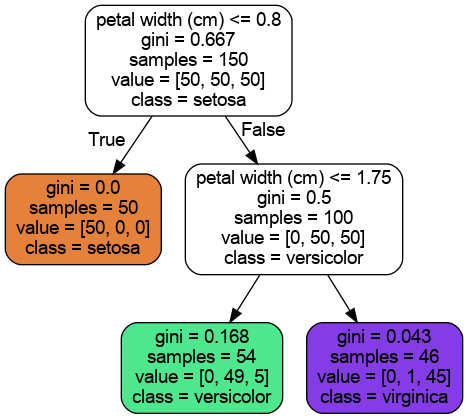
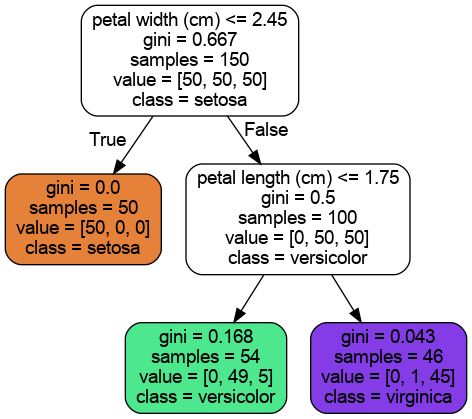
trees updated

diff --git a/decision-trees/trees.py b/decision-trees/trees.py
@@ -4,20 +4,23 @@
 from sklearn.datasets import load_iris
 from sklearn.tree import DecisionTreeClassifier, export_graphviz
 import subprocess
-
+import numpy as np
 
 # Load petal data of iris dataset
 iris = load_iris()
 x = iris.data[:, 2:]  # Petal length and wid
+# x = x[:, [1, 0]]
+x = np.flip(x, 1)
 y = iris.target
 
-depth = 3
 # Initialize and fit a decision Tree clssifier
-tree_clf = DecisionTreeClassifier(max_depth=depth)
+depth = 3
+tree_clf = DecisionTreeClassifier(max_depth=depth, criterion="entropy")
 tree_clf.fit(x, y)
 
-out = f"iris_tree_depth_{depth}"
+out = f"iris_tree_depth_{depth}_entropy"
 
+# create a classifier representation
 export_graphviz(
     tree_clf,
     out_file=f"{out}.dot",
@@ -34,3 +37,6 @@ export_graphviz(
 # convert dot file to png like tbhis
 # dot -Tpng iris_tree.dot -o iris_tree.png
 subprocess.run(["dot", "-Tpng", f"{out}.dot", f"-o {out}.png"])
+
+# decision trees can predict probabilities
+prediction = tree_clf.predict_proba(x)
